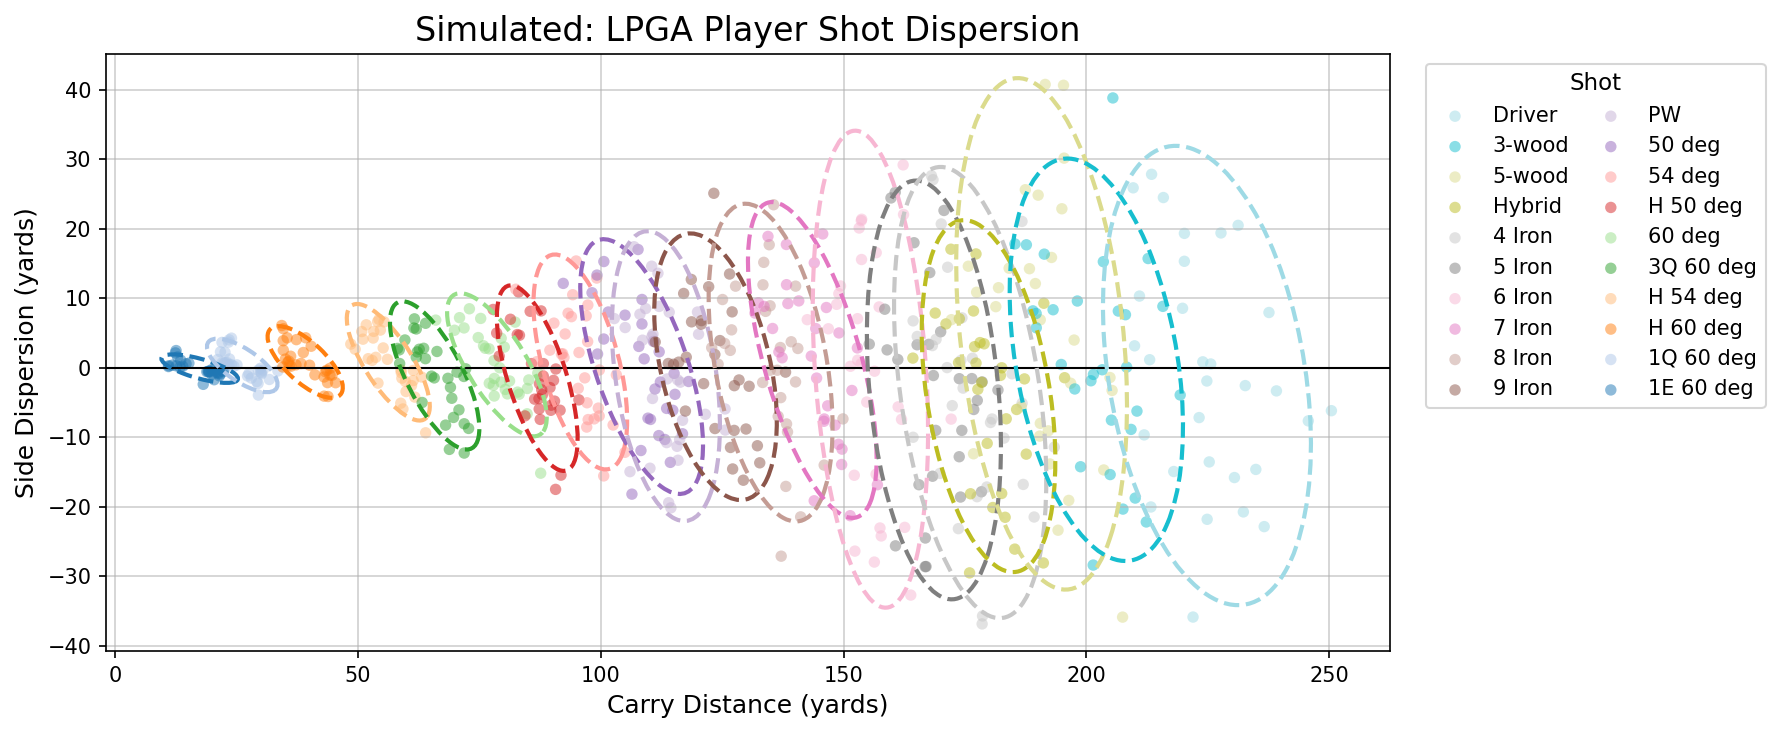
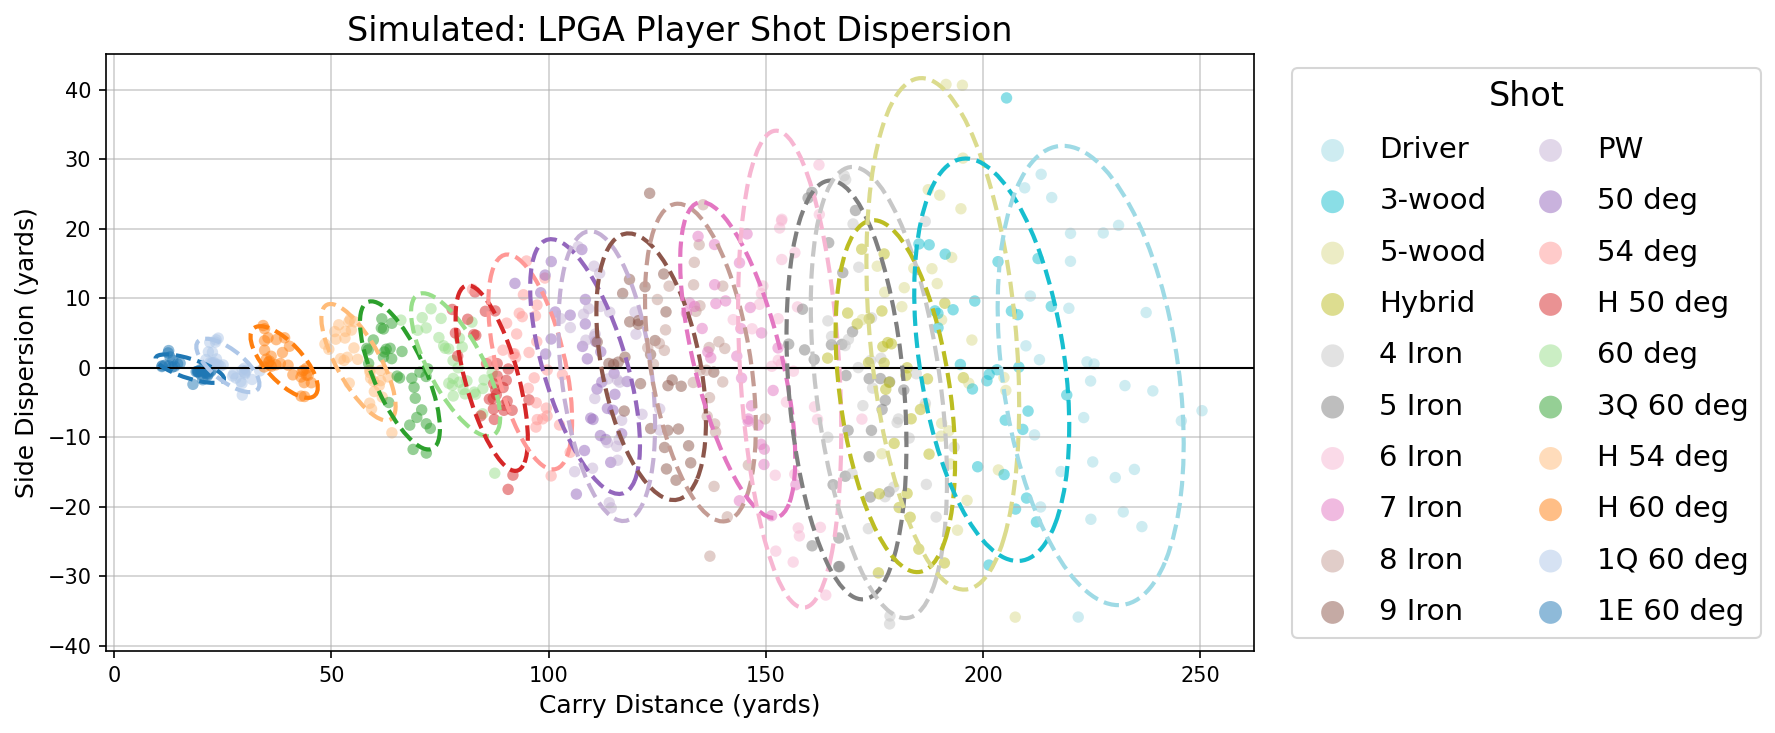
Enlarge LPGA dispersion plot legend text and swatches

diff --git a/PART 1/Trackman Fake Data/lpgaplot.py b/PART 1/Trackman Fake Data/lpgaplot.py
@@ -92,7 +92,8 @@ handles, labels = ax.get_legend_handles_labels()
 # ncol=2 splits the 19 entries into two side-by-side columns instead of one tall
 # column, so the legend stays readable when the figure is shrunk vertically.
 ax.legend(handles[::-1], labels[::-1], title="Shot", bbox_to_anchor=(1.02, 1),
-          loc='upper left', ncol=2, columnspacing=1.0, fontsize=10, title_fontsize=11)
+          loc='upper left', ncol=2, columnspacing=1.2, labelspacing=0.8,
+          handletextpad=0.6, markerscale=2.0, fontsize=14, title_fontsize=16)
 
 plt.tight_layout()
 plt.savefig('untitled folder/On_Par/images/LPGAShots.png', dpi=150, bbox_inches='tight')
